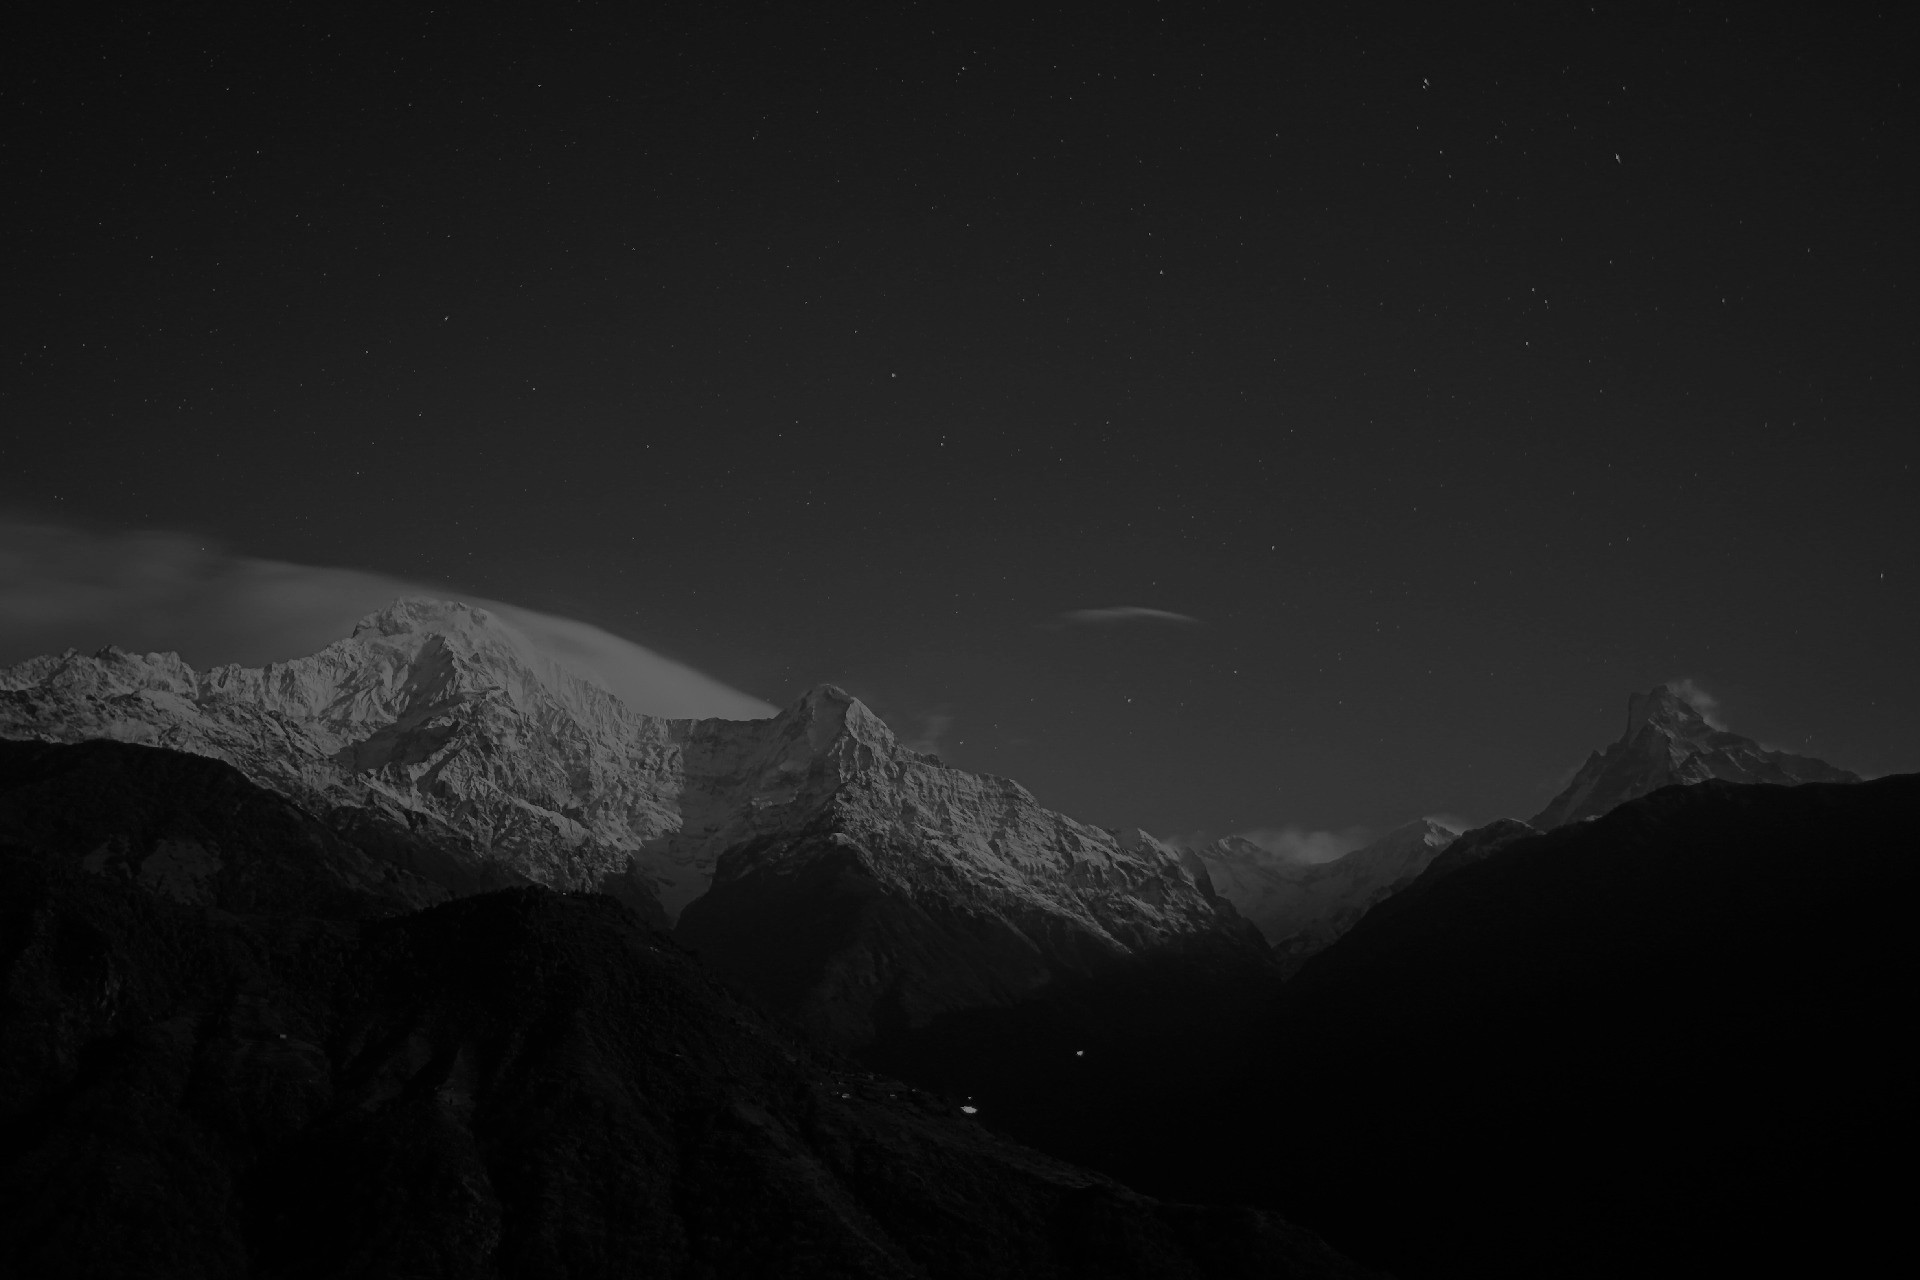
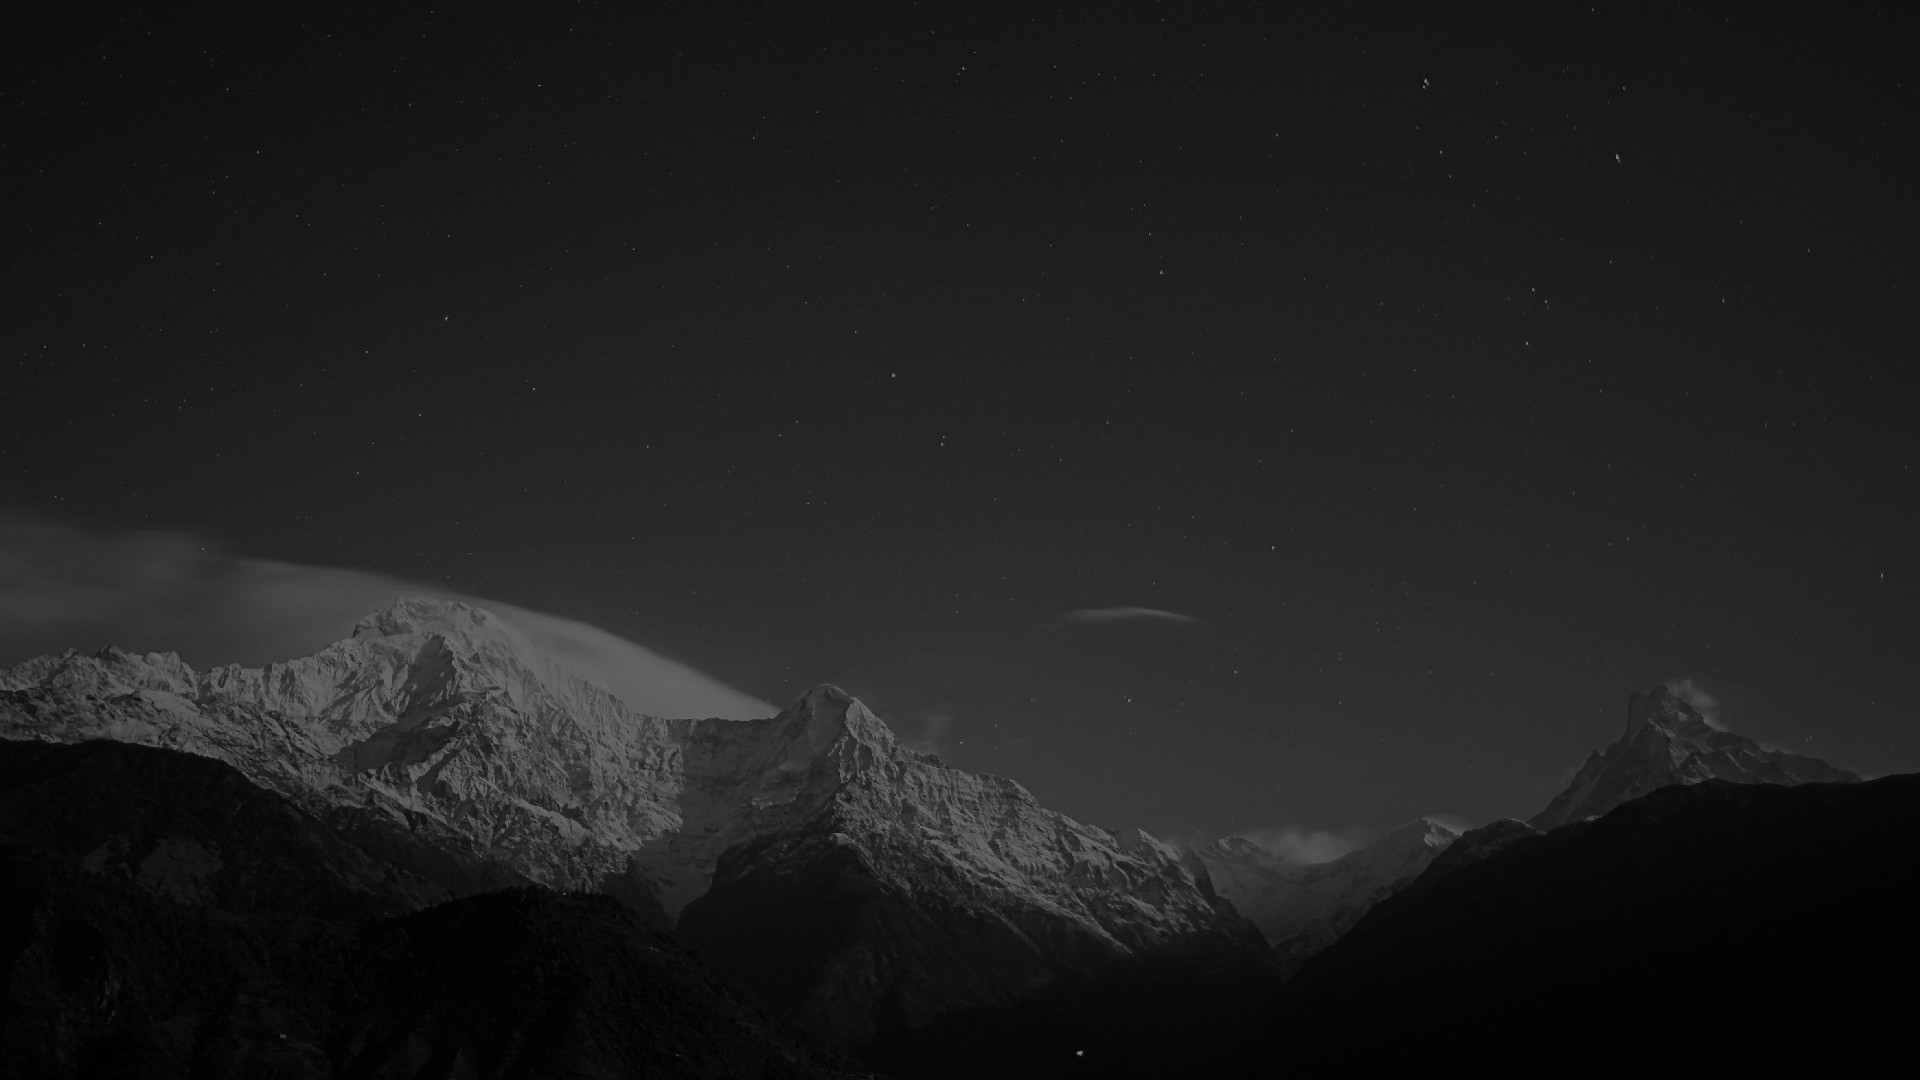
RE RE FIX BACKGROUND

Changed region(s): [[0.0, 0.4278, 1.0, 0.8861], [0.6562, 0.6417, 0.7188, 0.6722], [0.0625, 0.4278, 0.0938, 0.4583]]

diff --git a/static/css/custom.css b/static/css/custom.css
@@ -13,13 +13,13 @@ a:hover, a:focus{
 }
 body{
 	background-image: url("../images/remi-champlon-bakcground-light.jpg");
-	background-repeat: no-repeat;
-	background-size: 100%;
+    background-repeat: no-repeat;
+    background-size: 100% 100%;
 }
 body.colorscheme-dark{
 	background-image: url("../images/remi-champlon-bakcground-dark.jpg");
-	background-repeat: no-repeat;
-	background-size: 100%;
+    background-repeat: no-repeat;
+    background-size: 100% 100%;
 }
 .colorscheme-light > .wrapper > .content > section > article > ul > li > a, .colorscheme-light > .wrapper > .content > section > article > p > strong > a{
 	color: black !important;
